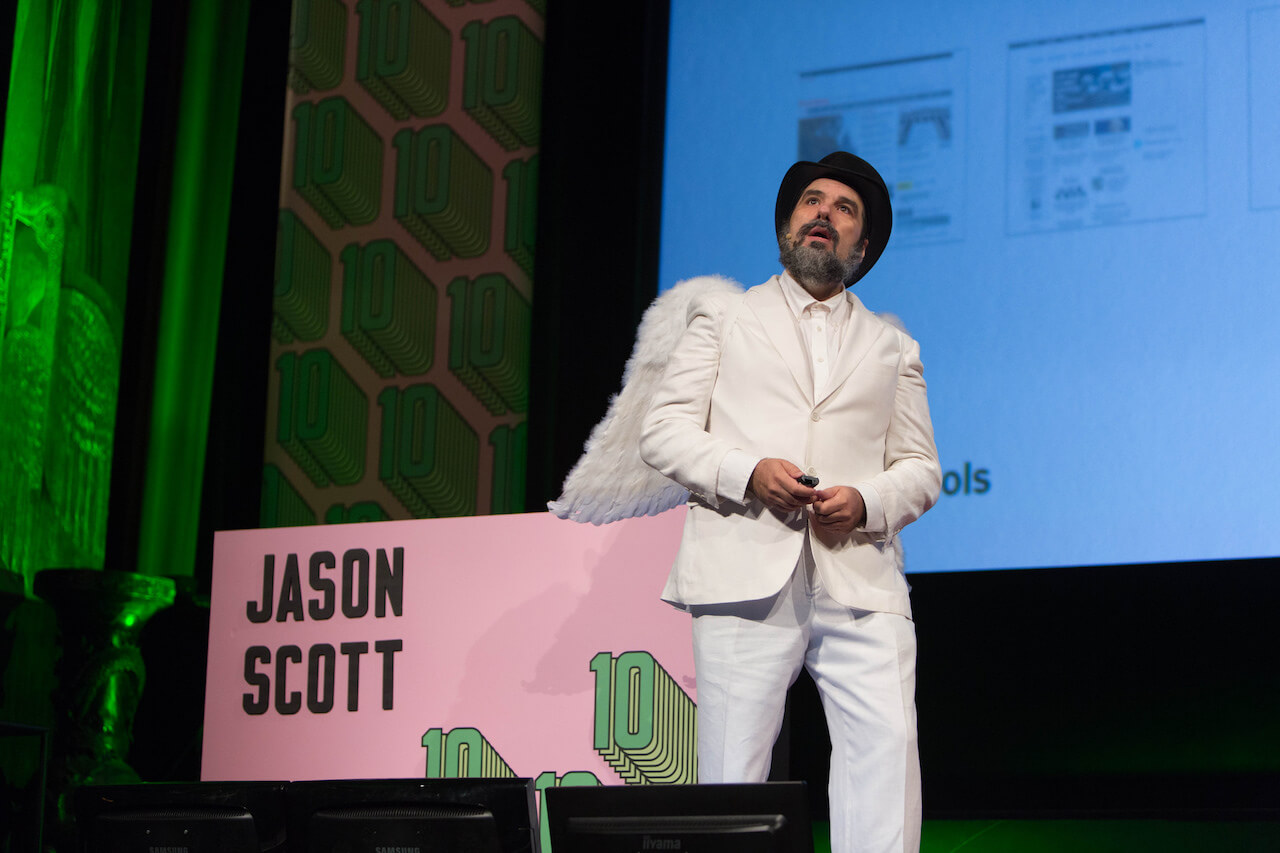
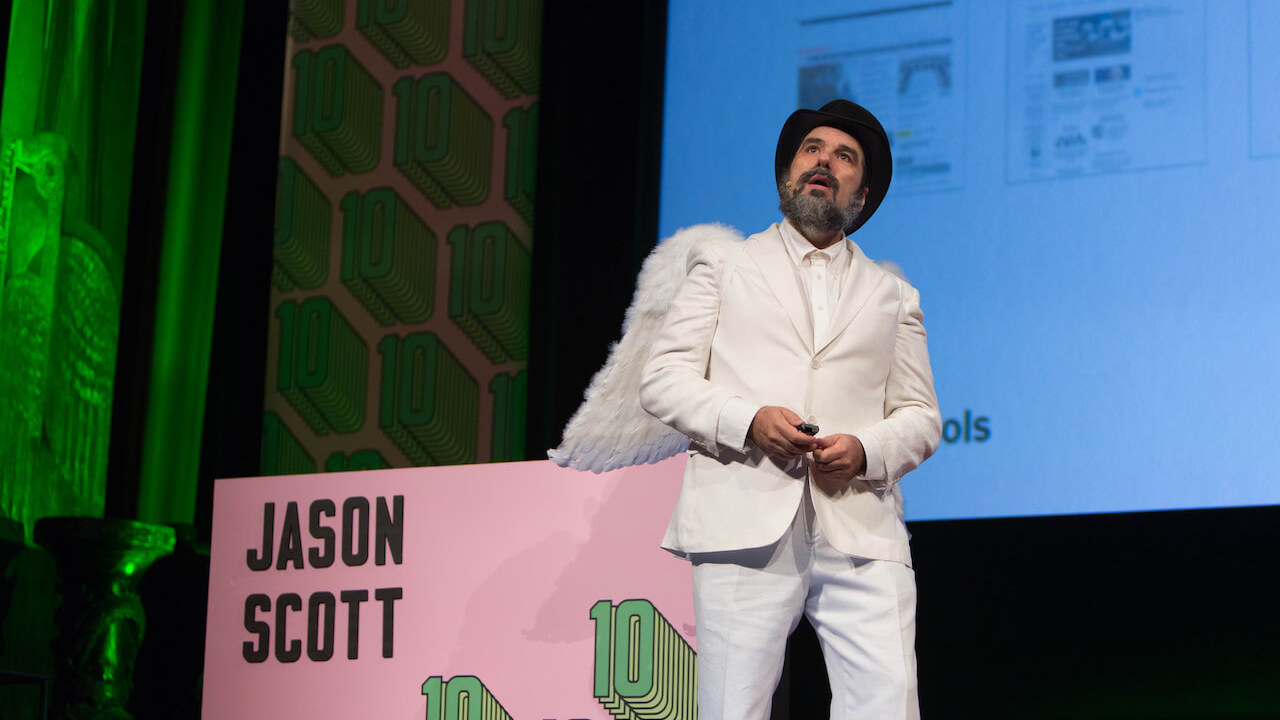
Cropped.

diff --git a/source/index.html b/source/index.html
@@ -73,7 +73,7 @@
 			</div>
 		</footer>
 		<div class="hero">
-			<img src="/static/hero-speaker.jpeg" width="1280" height="853" alt="An enigmatic conference speaker, wearing a white suit, top hat and angel wings">
+			<img src="/static/hero-speaker.jpeg" width="1280" height="720" alt="An enigmatic conference speaker, wearing a white suit, top hat and angel wings">
 		</div>
 	</body>
 </html>
